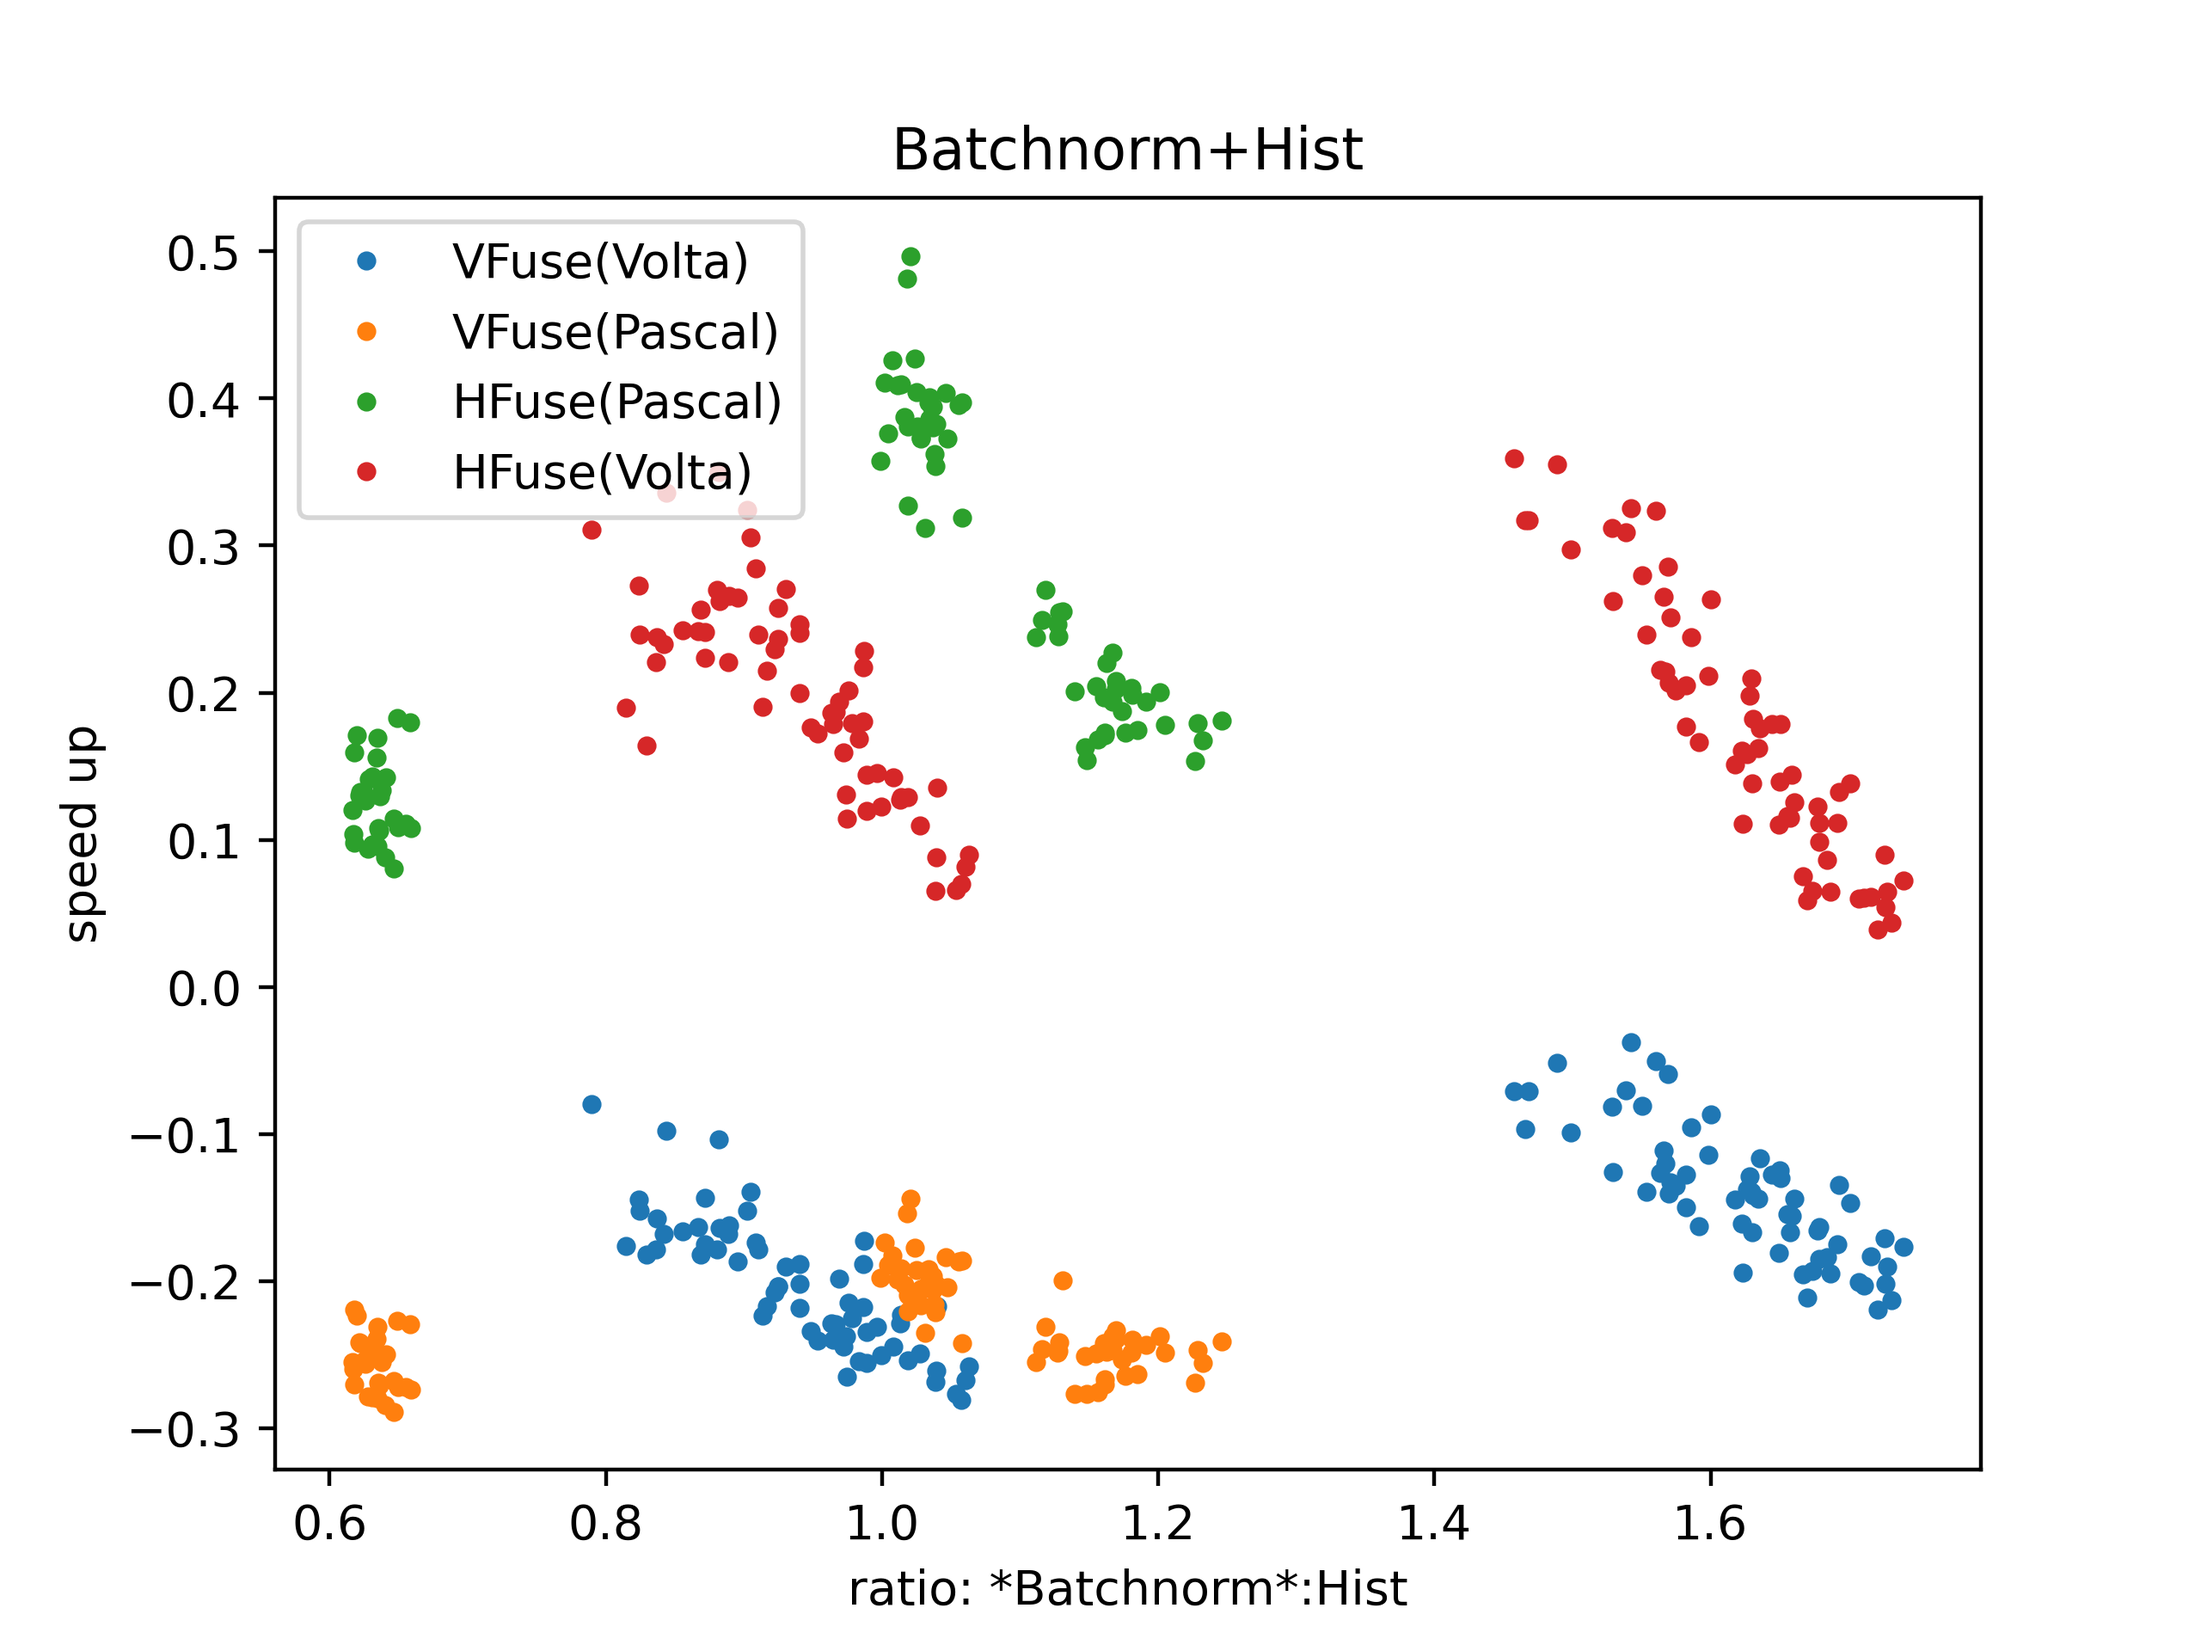
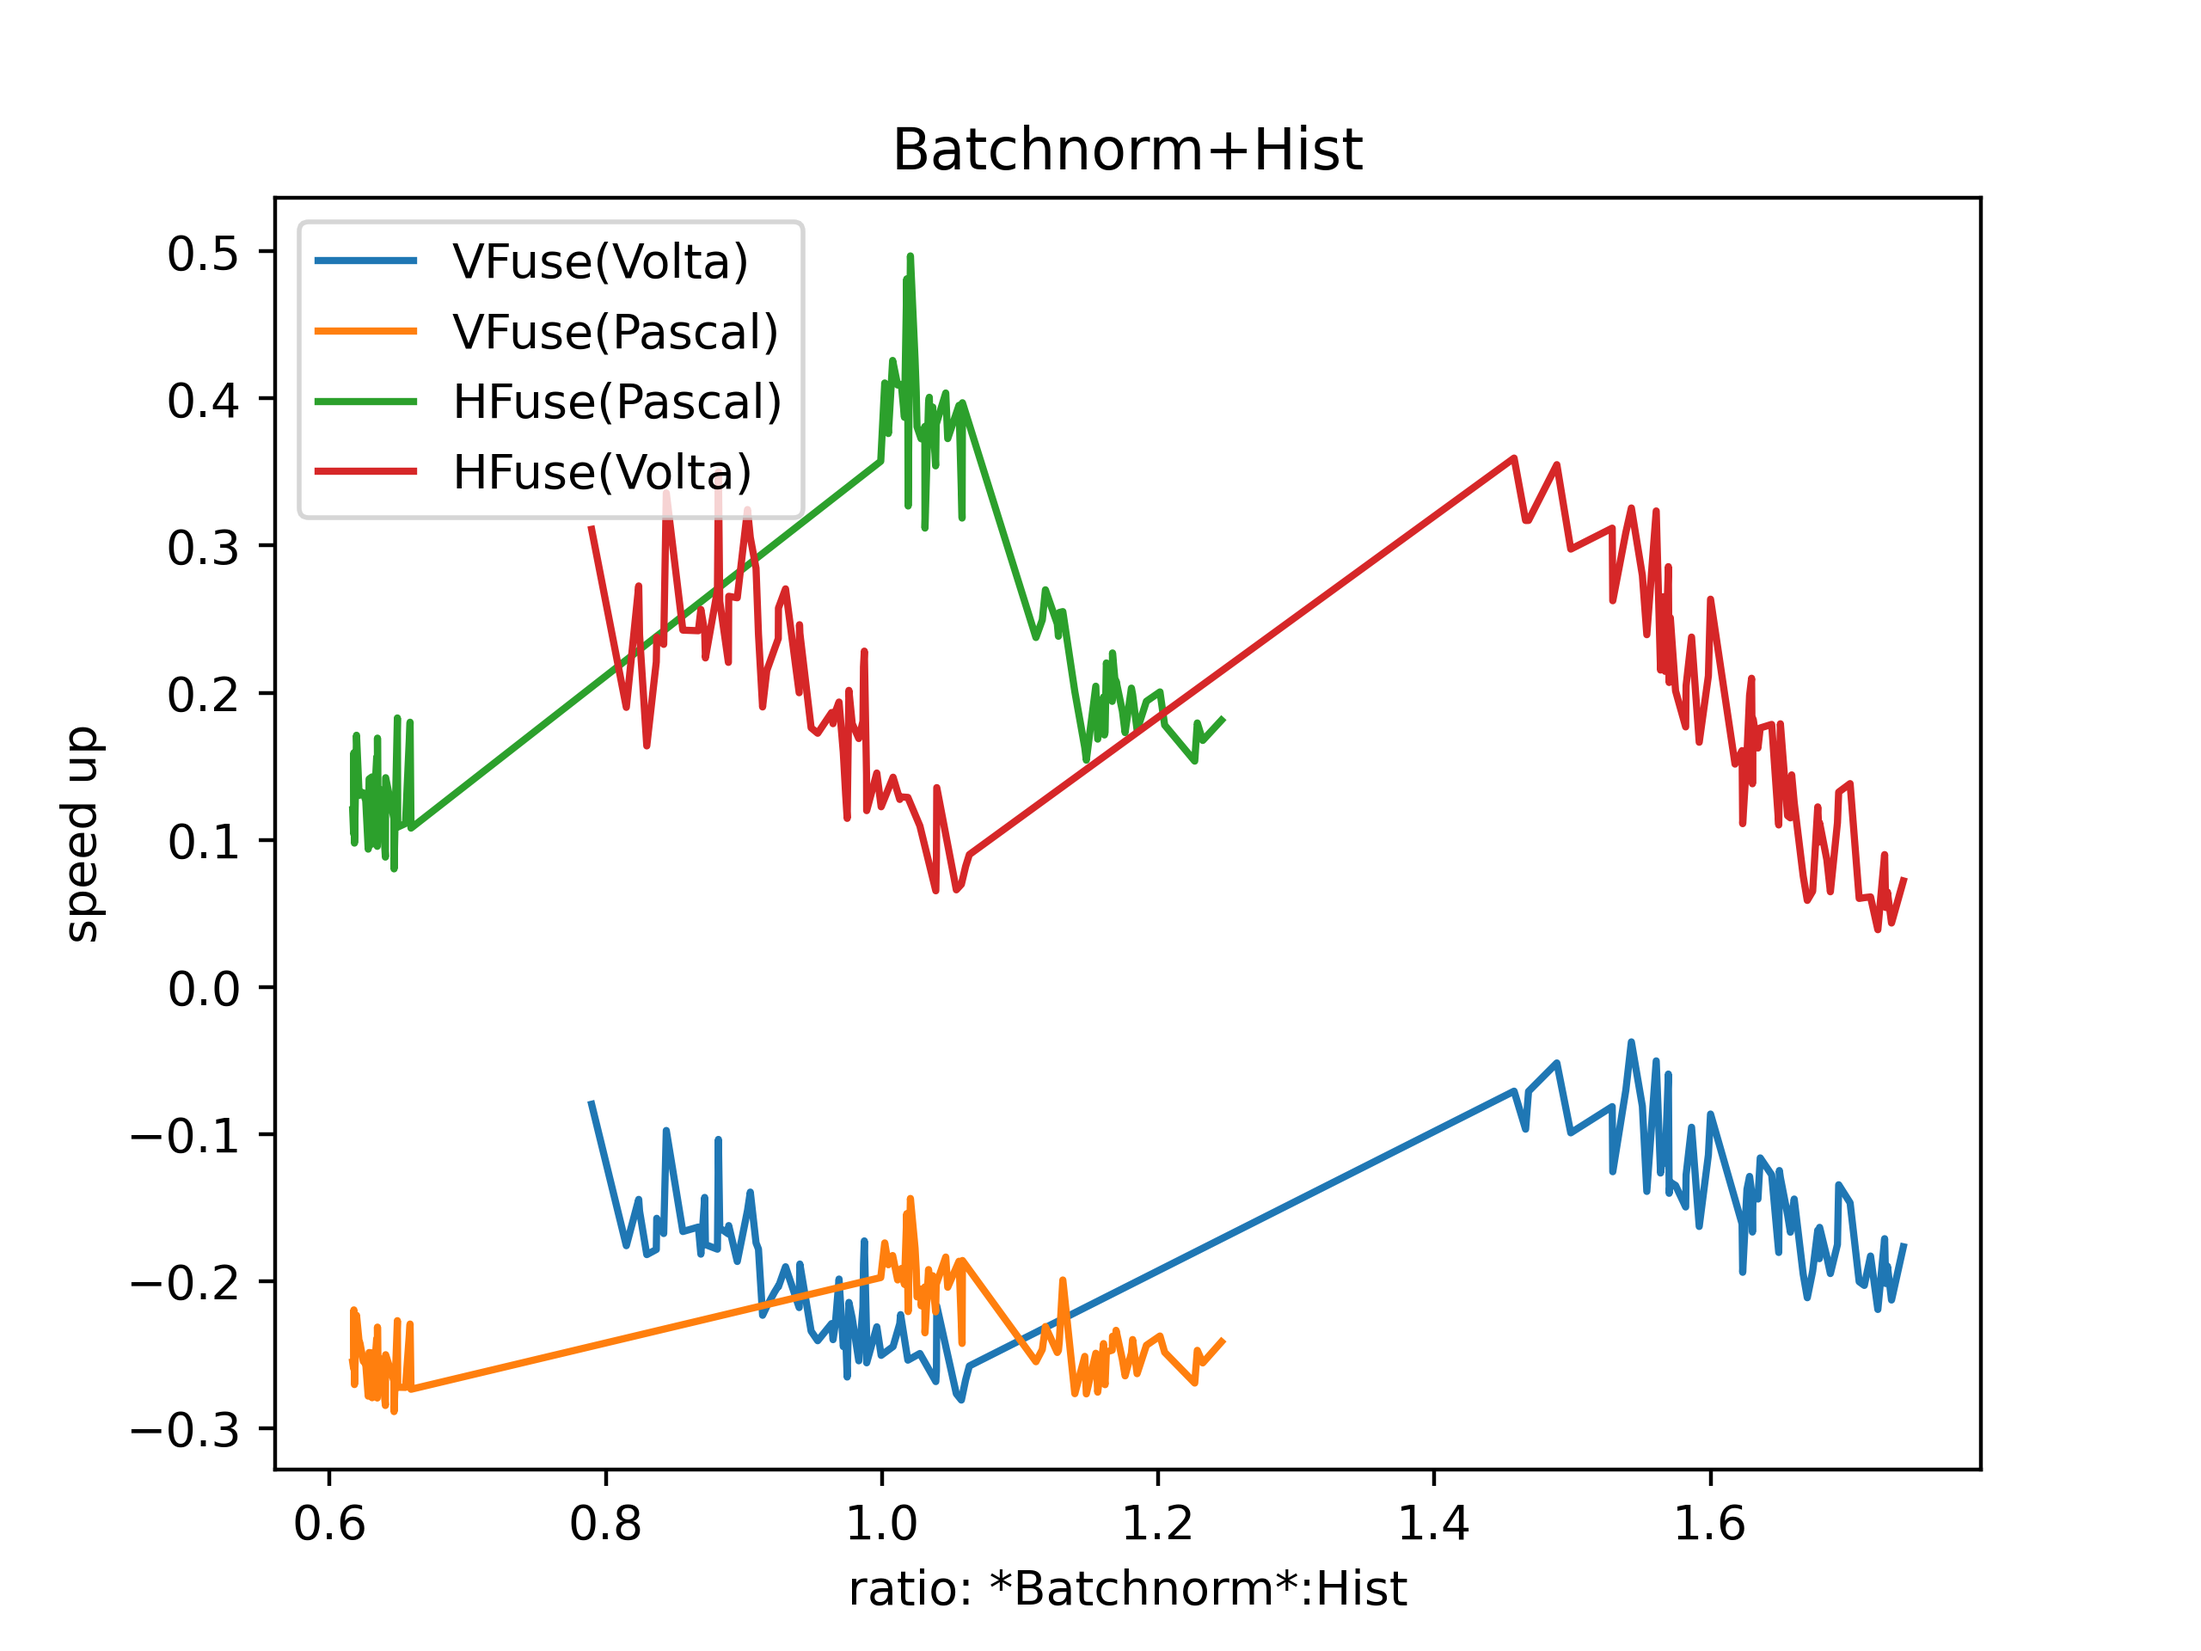
updat.

diff --git a/scripts/analyze_nvprof.py b/scripts/analyze_nvprof.py
@@ -346,7 +346,7 @@ def build_graph(result, selection, result_volta, selection_volta):
                 range_arr = (sorted_arr1 <= range_max) & (sorted_arr1 >= range_min)
                 # lab = tag
                 # sorted_arr2 = arr2[arr1inds[::-1]]
-                plt.plot(sorted_arr1[range_arr], a[range_arr], '.', label=lab)
+                plt.plot(sorted_arr1[range_arr], a[range_arr], label=lab)
             check(v, selection, vst, vra, "Pascal")
             check(result_volta[k], selection_volta, volta_st, volta_ra, "Volta")
         plt.legend()
